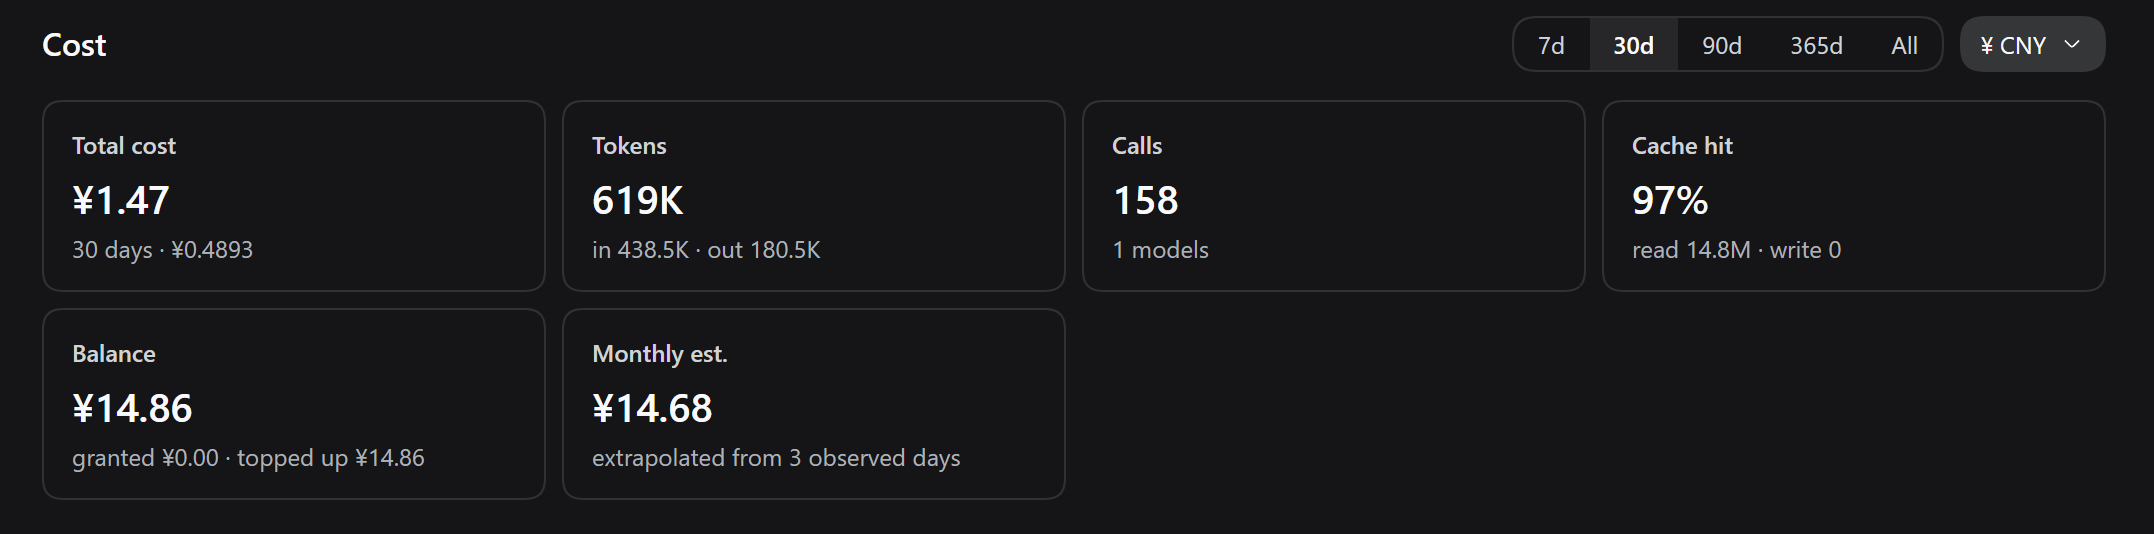
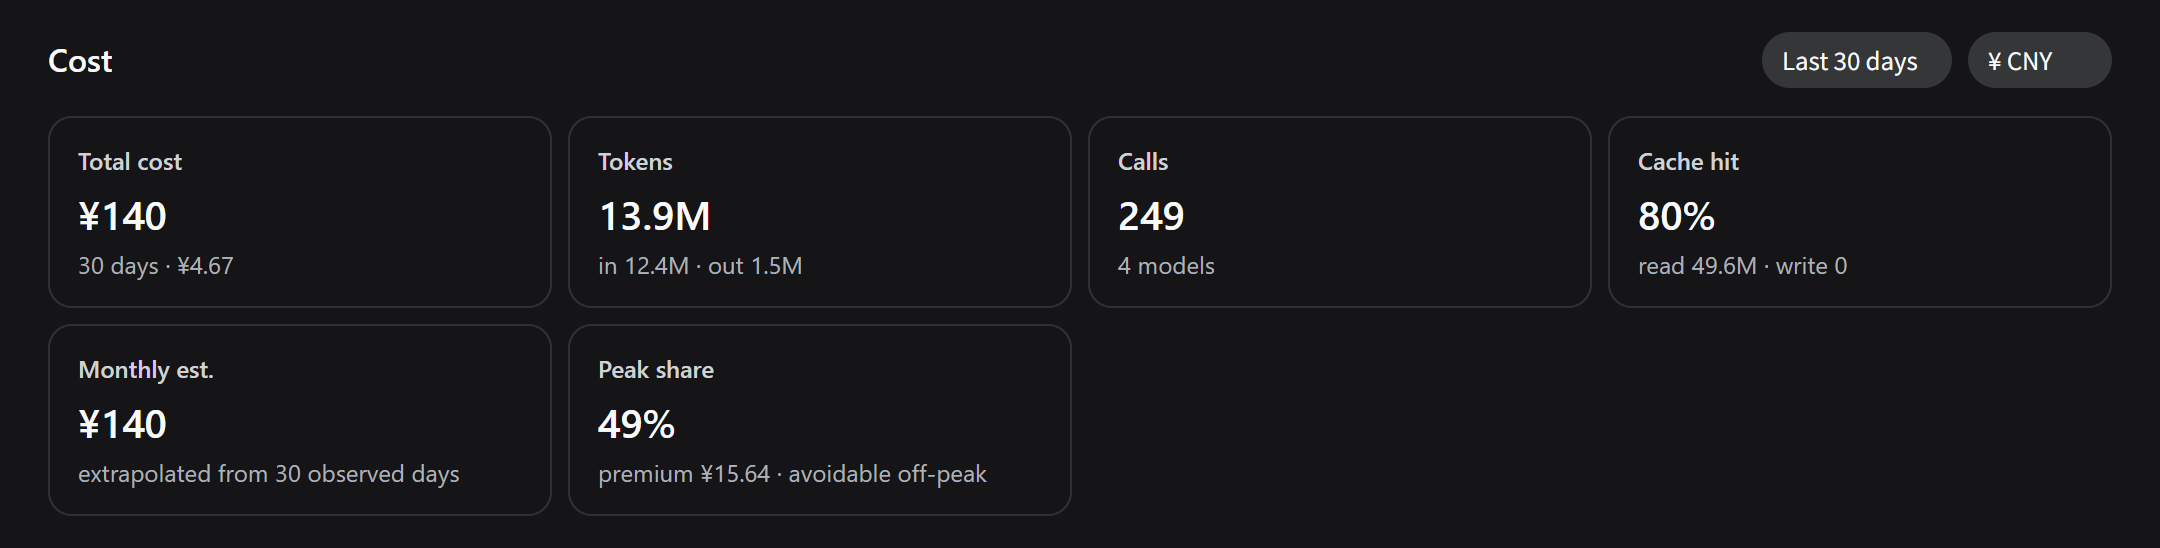
docs: describe report windows and timeline, refresh screenshots

diff --git a/README.md b/README.md
@@ -8,6 +8,8 @@ Cost tracking for DSH (DeepSeek Harness). A line under each turn tells you what 
 
 ![The Cost panel: total, tokens, cache hit, balance and monthly forecast](docs/overview.png)
 
+![Spend over time, stacked by model, with each bar's split on hover; below it, the weekday × hour heatmap](docs/timeline.png)
+
 ![Cost attribution: what the money went on, by kind of content](docs/attribution.png)
 
 ## Install
@@ -23,10 +25,10 @@ Restart `dsh web` to pick it up.
 - **Cost attribution** — the bill split by kind of content: tool output, model output, system prompt, terminal commands (grouped by `git` / `pnpm` / `rg`), tool input, attachments, system reminders, user input. The sunburst drills in.
 - **Per-turn cost** — one line under every finished turn: what it cost, how many steps, the cache-hit rate. It reads the session log itself, so turns from before you installed the plugin are covered too.
 - **Always on screen** — this session's cost as a pill beside the shipped stats in the composer dock, today's spend against the budget in the sidebar, and each session's cost in its sidebar hover card (DSH 0.1.7+). The dock's figure moves while a turn is still running, from the output that has streamed so far, and becomes the billed figure the moment the provider reports it. Each of the five surfaces can be turned off individually in settings.
-- **Report** — a **Cost** tab in each conversation (beside Chat and Trajectory) scoped to that session, and an account-wide **Cost** panel opened from the sidebar icon beside Plugins (DSH 0.1.7+): total, tokens, cache hit, peak share; account-wide also monthly forecast, account balance, budget and a per-session split; broken down by model and by purpose (including loop overhead such as context compaction); a daily trend and a weekday × hour heatmap.
+- **Report** — a **Cost** tab in each conversation (beside Chat and Trajectory) scoped to that session, and an account-wide **Cost** panel opened from the sidebar icon beside Plugins (DSH 0.1.7+): total, tokens, cache hit, peak share; account-wide also monthly forecast, account balance, budget and a per-session split; broken down by model and by purpose (including loop overhead such as context compaction); spend over time stacked by model, with each bar's split on hover; a weekday × hour heatmap. The window is either rolling (the last 24 hours, 7, 30, 90 or 365 days) or a calendar day (today, yesterday) on the host's clock, plus all time; bars are hours for a day or less, then days, weeks or months as the window grows.
 - **Budget** — a daily / monthly / all-time limit that turns amber past 80% and red when you go over.
 - **Multi-currency** — live rates for ~166 currencies; each model's base rate is shown in the currency its vendor prices it in.
-- **Agent tool** — `bill_stats`, so the model can answer questions about spend directly. `agentTool: false` in the plugin config leaves it unregistered, for anyone who never asks the model about spend and would rather not pay its schema on every request.
+- **Agent tool** — `bill_stats`, so the model can answer questions about spend directly, over a number of days back or one calendar day (`today`, `yesterday`, `YYYY-MM-DD`). `agentTool: false` in the plugin config leaves it unregistered, for anyone who never asks the model about spend and would rather not pay its schema on every request.
 - English and Chinese follow the DSH language setting; history from before the install is backfilled from the session log.
 
 ## How it differs from similar plugins
